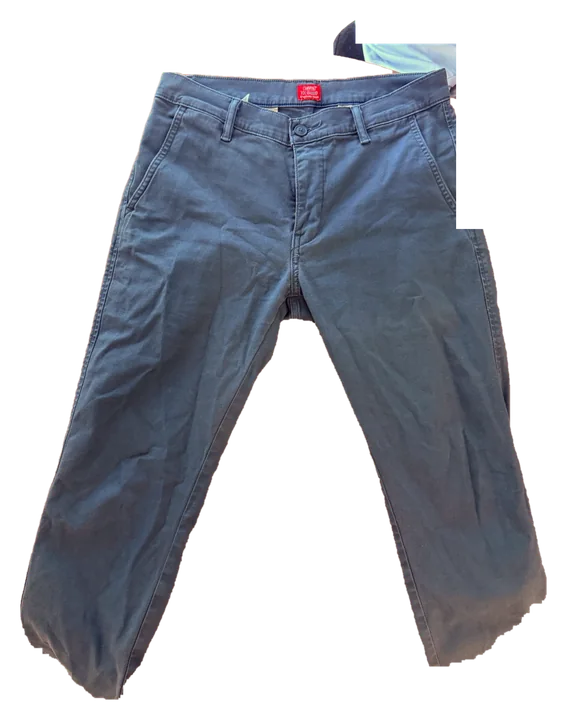
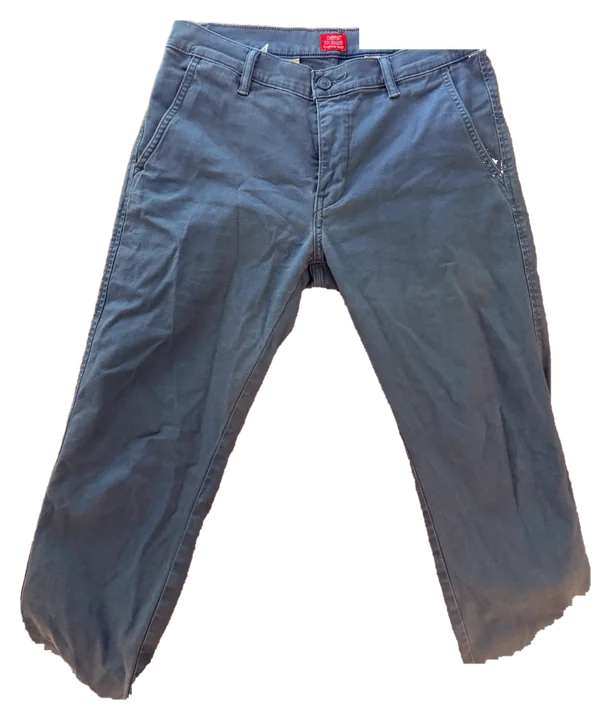
closet: Comprar más inteligente
- Candidatas nuevas (chinos, shorts chinos 5-7", polo de punto, lino,
  sobrecamisa, tee crema/marino) con fotos de sus prendas recoloreadas.
- Puntaje: outfits nuevos + prendas olvidadas que revive − castigo si ya
  tiene algo parecido; sin zapatos, los zapatos van primero.
- Cada sugerencia dice por qué y trae talla/corte para su cuerpo.
- Short chino ya no cuenta como formal; chino base sin restos de silla.

diff --git a/app/closet/data.js b/app/closet/data.js
@@ -29,6 +29,7 @@ window.CLOSET_DATA = (() => {
     amarillo: { hex: '#EDB74E', name: 'amarillo',    f: 'amarilla', p: 'amarillos', fp: 'amarillas', family: 'calido' },
     terracota:{ hex: '#7C4D47', name: 'terracota',   family: 'calido' },
     topo:     { hex: '#897C77', name: 'topo',        family: 'tierra' },
+    salvia:   { hex: '#9EAB8F', name: 'verde salvia', family: 'oliva' },
     acero:    { hex: '#4E5464', name: 'azul acero',  family: 'azul' },
     azulrey:  { hex: '#2B2E8C', name: 'azul rey',    family: 'azul' },
   };
@@ -61,7 +62,7 @@ window.CLOSET_DATA = (() => {
     const t = `${name} ${material}`.toLowerCase();
     if (/jean|denim/.test(t)) f = type === 'pantalon' ? 2 : f;
     if (/vestir|lana fr|sastre/.test(t)) f = 4;
-    if (/chino/.test(t)) f = 3;
+    if (/chino/.test(t) && type === 'pantalon') f = 3;
     if (/lino/.test(t) && type === 'camisa') { f = 2; w = 1; }
     if (/deportiv|dry|running|correr|gym|entrenar/.test(t)) f = 1;
     if (/estampad|gr[aá]fic|floral|tropical|hawai/.test(t)) f = Math.max(1, f - 1);
@@ -92,7 +93,7 @@ window.CLOSET_DATA = (() => {
       color: o.hex ? { ...C[color], hex: o.hex } : C[color],  // hex medido en la foto
       name: o.name || itemName(S[type], C[color]),
       q: o.q || `${color} ${S[type].en}`,
-      photo: `img/${id}.${o.ghost ? 'png' : 'webp'}`,
+      photo: `img/${id}.${id.startsWith('c') ? 'png' : 'webp'}`,
       ...autoProfile(type, o.name || '', o.material || ''),
       style: o.style || styleOf(type, o.name || '', o.material || ''),
       loud: /del dim|colombia|big apple/i.test(o.name || ''),  // estampado multicolor
@@ -101,6 +102,7 @@ window.CLOSET_DATA = (() => {
       wearCount: o.wearCount ?? 0,
       material: o.material || '',
       ghost: !!o.ghost,
+      tip: o.tip || '',   // talla y corte para Jose (1,64 m, atlético)
     };
   };
 
@@ -169,12 +171,30 @@ window.CLOSET_DATA = (() => {
     item('j1524', 'short',     'negro',     { name: 'Short negro con cierres', material: 'poliéster', hex: '#3B3B3A' }),
   ];
 
-  // Prendas que NO tienes. Comprar mide cuántos outfits nuevos abre cada una.
+  // Prendas que NO tienes. Comprar mide cuántos outfits buenos abre cada una,
+  // cuántas prendas olvidadas revive y si ya tienes algo parecido. Las fotos son
+  // prendas tuyas recoloreadas (g-*) o de producto libre (c*).
+  const T = {
+    pant: 'Talla 29 × 28". Slim tapered, que termine en el tobillo sin arrugarse sobre el zapato.',
+    short: 'Talla 29, entrepierna 5–7". Más largo te corta la pierna en la rodilla.',
+    top: 'Talla S, corte regular o athletic. Largo 66–69 cm; que la costura caiga en el hueso del hombro.',
+    shirt: 'Talla S slim. Que no pase de la mitad de la bragueta si la llevas por fuera.',
+  };
   const catalog = [
-    item('c28', 'camiseta', 'crudo',   { ghost: true, q: 'off white t-shirt' }),
-    item('c31', 'chaqueta', 'cafe',    { ghost: true, name: 'Chaqueta de cuero café', q: 'brown leather jacket', material: 'cuero' }),
-    item('c34', 'camisa',   'oliva',   { ghost: true, q: 'olive green shirt' }),
-    item('c41', 'tenis',    'blanco',  { ghost: true, name: 'Tenis blancos minimalistas', q: 'white minimalist leather sneakers', material: 'cuero' }),
+    item('c41', 'tenis', 'blanco', { ghost: true, name: 'Tenis blancos minimalistas', q: 'white minimalist leather sneakers', material: 'cuero',
+      tip: 'Suela delgada, no chunky: la suela gruesa se nota más que la altura que te da.' }),
+    item('g-chino-beige',  'pantalon', 'beige',  { ghost: true, name: 'Chino beige',       q: 'beige slim chino pants', material: 'chino', tip: T.pant }),
+    item('g-chino-oliva',  'pantalon', 'oliva',  { ghost: true, name: 'Chino verde oliva', q: 'olive slim chino pants', material: 'chino', tip: T.pant }),
+    item('g-chino-negro',  'pantalon', 'negro',  { ghost: true, name: 'Chino negro',       q: 'black slim chino pants', material: 'chino', tip: T.pant }),
+    item('g-short-caqui',  'short',    'caqui',  { ghost: true, name: 'Short chino caqui', q: 'khaki chino shorts 5 inch', material: 'algodón', tip: T.short }),
+    item('g-short-marino', 'short',    'marino', { ghost: true, name: 'Short chino azul marino', q: 'navy chino shorts 5 inch', material: 'algodón', tip: T.short }),
+    item('g-polo-crema',   'polo',     'crudo',  { ghost: true, name: 'Polo de punto crema', q: 'cream knit polo shirt', material: 'punto', tip: T.top }),
+    item('g-polo-marino',  'polo',     'marino', { ghost: true, name: 'Polo de punto azul marino', q: 'navy knit polo shirt', material: 'punto', tip: T.top }),
+    item('g-lino-blanca',  'camisa',   'blanco', { ghost: true, name: 'Camisa de lino blanca', q: 'white linen shirt', material: 'lino', tip: T.shirt }),
+    item('g-lino-salvia',  'camisa',   'salvia', { ghost: true, name: 'Camisa de lino verde salvia', q: 'sage green linen shirt', material: 'lino', tip: T.shirt }),
+    item('g-tee-crema',    'camiseta', 'crudo',  { ghost: true, name: 'Camiseta crema de buen algodón', q: 'off white heavyweight t-shirt regular fit', material: 'algodón', tip: T.top }),
+    item('g-tee-marino',   'camiseta', 'marino', { ghost: true, name: 'Camiseta azul marino', q: 'navy t-shirt regular fit', material: 'algodón', tip: T.top }),
+    item('g-sobre-oliva',  'chaqueta', 'oliva',  { ghost: true, name: 'Sobrecamisa oliva', q: 'olive overshirt', material: 'algodón', tip: 'Talla S. Que cierre sin tirar en el pecho y termine en la cadera.' }),
   ];
 
   // Dónde comprar: marcas con tienda física en cada mall y su buscador online

diff --git a/app/closet/engine.js b/app/closet/engine.js
@@ -40,7 +40,7 @@ window.CLOSET_ENGINE = (() => {
     const Y = f(v[0] * 0.2126 + v[1] * 0.7152 + v[2] * 0.0722);
     const Z = f((v[0] * 0.0193 + v[1] * 0.1192 + v[2] * 0.9505) / 1.089);
     const a = 500 * (X - Y), b = 200 * (Y - Z);
-    return { C: Math.hypot(a, b), h: (Math.atan2(b, a) * 180 / Math.PI + 360) % 360 };
+    return { L: 116 * Y - 16, C: Math.hypot(a, b), h: (Math.atan2(b, a) * 180 / Math.PI + 360) % 360 };
   }
   // Fuerte = color saturado o estampado de muchos colores (camisetas de fútbol).
   const loud = p => p.loud || lab(p.color.hex).C > 38;
@@ -183,16 +183,51 @@ window.CLOSET_ENGINE = (() => {
     return keys.size;
   }
 
-  // Cuántos outfits nuevos que COMBINAN BIEN abre cada prenda del catálogo
-  // (solo los de puntaje alto, sin contar variantes de capa por separado).
+  // ¿Ya tienes algo casi igual? Mismo tipo y color que se ve igual (neutros por
+  // claridad; colores por tono). Comprar algo repetido no suma.
+  function similar(a, b) {
+    if (a.type !== b.type) return false;
+    const A = lab(a.color.hex), B = lab(b.color.hex);
+    if (A.C < 12 && B.C < 12) return Math.abs(A.L - B.L) < 12;
+    if (A.C < 12 || B.C < 12) return false;
+    return Math.min(Math.abs(A.h - B.h), 360 - Math.abs(A.h - B.h)) < 25 && Math.abs(A.L - B.L) < 18;
+  }
+
+  // Qué conviene comprar. Por cada candidata:
+  //  - outfits nuevos (sin contar variantes de capa ni zapato),
+  //  - prendas tuyas que hoy casi no salen y con esta vuelven a usarse,
+  //  - castigo si ya tienes algo parecido.
   function gaps(items, catalog, occasions, weathers, votes) {
+    const good = () => true;   // las reglas de estilo y color ya filtran lo que no combina
+    const core = (o, cat) => keyOf(o.parts.filter(p => p.cat !== 'shoes' && (p.cat !== 'layer' || cat === 'layer')));
+    const noShoes = !items.some(i => i.cat === 'shoes');
+    const baseKeys = new Set(), uses = {};
+    for (const occasion of occasions) for (const weather of weathers)
+      for (const o of build(items, { occasion, weather, votes, seed: 1, limit: 5000 })) {
+        if (!good(o)) continue;
+        baseKeys.add(core(o)); baseKeys.add(core(o, 'layer'));
+        for (const p of o.parts) uses[p.id] = (uses[p.id] || 0) + 1;
+      }
+    // "Olvidadas": prendas que salen en muy pocos outfits comparadas con el resto.
+    const counts = items.filter(i => i.style !== 'sport').map(i => uses[i.id] || 0).sort((a, b) => a - b);
+    const cut = counts[Math.floor(counts.length * 0.25)] || 0;
+    const forgotten = new Set(items.filter(i => i.style !== 'sport' && (uses[i.id] || 0) <= cut).map(i => i.id));
     return catalog.map(g => {
-      const keys = new Set();
+      const keys = new Set(), revived = new Set();
       for (const occasion of occasions) for (const weather of weathers)
-        build([...items, g], { occasion, weather, withItem: g.id, votes, seed: 1, limit: 5000 })
-          .forEach(o => { if (o.score >= 2.5) keys.add(keyOf(o.parts.filter(p => p.cat !== 'layer'))); });
-      return { item: g, unlocks: keys.size };
-    }).sort((a, b) => b.unlocks - a.unlocks);
+        for (const o of build([...items, g], { occasion, weather, withItem: g.id, votes, seed: 1, limit: 5000 })) {
+          if (!good(o)) continue;
+          const k = core(o, g.cat);
+          if (baseKeys.has(k) && !(noShoes && g.cat === 'shoes')) continue;
+          keys.add(k);
+          for (const p of o.parts) if (forgotten.has(p.id)) revived.add(p.id);
+        }
+      const twins = items.filter(i => similar(i, g));
+      const unlocks = keys.size;
+      // Una capa duplica outfits de días frescos (variantes), y en Florida pesa menos.
+      const score = unlocks * (g.cat === 'layer' ? 0.2 : 1) + revived.size - 25 * twins.length + (noShoes && g.cat === 'shoes' ? 1000 : 0);
+      return { item: g, unlocks, revived: items.filter(i => revived.has(i.id)), twins, needShoes: noShoes && g.cat === 'shoes', score };
+    }).filter(r => r.unlocks > 0 && r.twins.length < 2).sort((a, b) => b.score - a.score);
   }
 
   return { build, gaps, countAll, isValid, keyOf, climate };

diff --git a/app/closet/app.js b/app/closet/app.js
@@ -416,7 +416,7 @@
   views.comprar = () => {
     const items = wardrobe();
     const gaps = E.gaps(items, D.catalog.filter(c => !state.wishlist.includes(c.id)), D.occasions.slice(0, 3), D.weathers.slice(0, 2), state.votes)
-      .filter(g => g.unlocks > 0).slice(0, 8);
+      .slice(0, 8);
     const total = E.countAll(items, D.occasions, D.weathers.slice(0, 2), state.votes);
     const mall = D.malls.find(m => m.id === state.prefs.mall) || D.malls[0];
     const mallBrands = mall.brands.map(id => ({ id, ...D.brands[id] })).filter(b => b.name).sort((a, b) => a.name.localeCompare(b.name));
@@ -425,6 +425,14 @@
 
     const io = new IntersectionObserver(es => es.forEach(e => { if (e.isIntersecting) { count(e.target); io.unobserve(e.target); } }), { threshold: 0.6 });
 
+    // Por qué se sugiere, en una línea.
+    const why = g => {
+      if (g.needShoes) return 'No hay zapatos en tu armario: es lo primero.';
+      const bits = [];
+      if (g.revived.length) bits.push(`le da uso a ${g.revived.length} ${g.revived.length === 1 ? 'prenda que casi no sale' : 'prendas que casi no salen'}`);
+      if (g.twins.length) bits.push(`ojo: se parece a tu ${g.twins[0].name.toLowerCase()}`);
+      return bits.join(' · ');
+    };
     const rows = gaps.map(g => {
       const num = h('b', { class: 'num', 'data-n': g.unlocks }, reduced ? g.unlocks : '0');
       // Primero las marcas fuertes en ese tipo de prenda; el resto, al pedirlo.
@@ -435,6 +443,7 @@
       const stores = h('div', { class: 'stores' }, ...where.slice(0, LIMIT).map(link));
       const moreBtn = where.length > LIMIT && !picked.length ? h('button', { class: 'mini', onclick: () => { stores.append(...where.slice(LIMIT).map(link)); moreBtn.remove(); } }, `Ver las ${where.length}`) : null;
       const detail = h('div', { class: 'detail', hidden: true },
+        g.item.tip ? h('p', { class: 'fit-tip' }, h('b', {}, 'Tu talla: '), g.item.tip) : null,
         h('p', { class: 'sub' }, where.length
           ? (mall.id === 'any' ? 'Búscala en' : `En ${mall.name}${mall.outlet ? ' (outlet)' : ''} la tienen`)
           : (mall.id === 'any' ? 'Sin tiendas cargadas todavía.' : `Ninguna de tus marcas en ${mall.name} vende esto.`)),
@@ -445,7 +454,7 @@
       const row = h('div', { class: 'gap' },
         h('button', { class: 'gap-head', onclick: () => { detail.hidden = !detail.hidden; row.classList.toggle('open'); } },
           piece(g.item, 'settled'),
-          h('span', { class: 'gap-name' }, g.item.name),
+          h('span', { class: 'gap-name' }, g.item.name, h('small', { class: 'why' }, why(g))),
           h('span', { class: 'unlock' }, num, h('small', {}, 'outfits nuevos'))),
         detail);
       io.observe(num);

diff --git a/app/closet/app.css b/app/closet/app.css
@@ -356,3 +356,6 @@ body.gated .tabs, body.gated .side, body.gated .me { display: none; }
 .invite-form { display: flex; gap: 8px; margin-top: 10px; }
 .invite-form input { flex: 1; }
 .v-perfil .ghost-btn { margin-top: 24px; }
+
+.gap-name .why { display: block; margin-top: 2px; font-size: .78em; font-weight: 400; color: var(--ink-2); line-height: 1.3; }
+.fit-tip { margin: 0 0 10px; font-size: .9em; line-height: 1.4; }

diff --git a/app/closet/img/CREDITOS.md b/app/closet/img/CREDITOS.md
@@ -1,6 +1,6 @@
 # Créditos de las fotos del catálogo de Comprar
 
-Las prendas del armario (j*.webp) son fotos propias de Jose (2026-10-24), sin crédito externo.
+Las prendas del armario (j*.webp) y las sugerencias recoloreadas (g-*.webp) salen de fotos propias de Jose (2026-10-24), sin crédito externo.
 
 Fuentes: Unsplash (licencia Unsplash) y Pexels (licencia Pexels). Ambas permiten uso y modificación
 sin atribución obligatoria; igual se deja el crédito. Todas están en JPG, lado mayor 900 px, < 250 KB.
@@ -8,13 +8,6 @@ sin atribución obligatoria; igual se deja el crédito. Todas están en JPG, lad
 
 | Archivo | Prenda pedida | Fuente (página) | Autor | Estado |
 |---|---|---|---|---|
-| c27.jpg | Pantalón chino beige | https://www.pexels.com/photo/trousers-on-a-hanger-20094389/ | Thomas Richard (Pexels) | aproximada (recorte estrecho del pantalón beige; se ven bordes del café y el oliva vecinos) |
-| c28.jpg | Camiseta crudo/off-white | https://www.pexels.com/photo/a-brown-shirt-hanging-on-a-clothesline-11671275/ | Marina Podrez (Pexels) | aproximada (tono beige/khaki claro más que crudo; en gancho sobre rack blanco, fondo blanco) |
-| c29.jpg | Tenis crema (tipo Samba/Veja) | https://unsplash.com/photos/a-white-sneaker-with-brown-lining-against-a-light-wall-JuTTrDggKvg | Jordan Hou (Unsplash) | aproximada (tenis blanco roto con detalles oliva/café, pared clara con sombra; no es Samba ni Veja) |
-| c30.jpg | Mocasín negro | https://www.pexels.com/photo/elegant-black-leather-loafer-shoe-for-men-s-fashion-38570110/ | Taiye Salawu (Pexels) | aproximada (uno solo, vista lateral, sobre sofá beige claro; logo Clarks pequeño) |
-| c31.jpg | Chaqueta de cuero café | https://unsplash.com/photos/brown-leather-jacket-hanging-on-brown-wooden-wall-hook-3OFBcQQTN64 | Derick McKinney (Unsplash) | aproximada (colgada en perchero de madera, pared beige) |
-| c34.jpg | Camisa verde oliva | https://unsplash.com/photos/brown-button-up-long-sleeve-shirt-kU8e2jfaocU | Nelson Ndongala (Unsplash) | aproximada (sobrecamisa oliva vista por la espalda, estampado de cuadros tono sobre tono; fondo blanco) |
-| c36.jpg | Botas negras chelsea | https://www.pexels.com/photo/stylish-black-combat-boots-on-white-fabric-31129830/ | Eugenia Remark (Pexels) | aproximada (botas negras de cuero pero con cordones y suela track, no chelsea; sobre tela blanca) |
 
 ## Faltantes (no se encontró foto de producto de esa prenda sobre fondo claro en Unsplash/Pexels)
 
